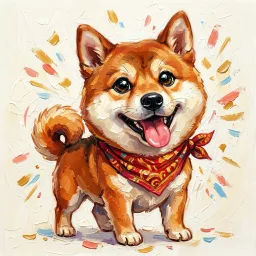
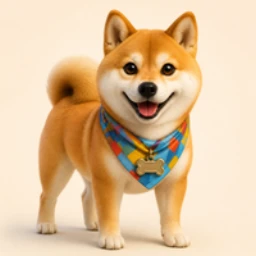
Complete soft 3D dog caricature rollout

diff --git a/sw.js b/sw.js
@@ -1,7 +1,7 @@
 // 앱 셸만 캐시(오프라인 첫 화면). API 응답은 캐시하지 않는다(날씨는 항상 최신 조회).
-const CACHE = 'tailtrail-shell-v32';
+const CACHE = 'tailtrail-shell-v33';
 // 캐리커처 43장은 처음 설치할 때 함께 받아 둔다(오프라인에서도 아이 그림이 보이게)
-const CARICATURES = ['maltese-1', 'maltese-2', 'maltese-3', 'maltese-4', 'maltese-5', 'poodle', 'pomeranian', 'corgi', 'bichon', 'retriever', 'saint-bernard', 'saint-bernard-puppy', 'saint-bernard-senior', 'pug', 'pug-puppy', 'pug-senior', 'shih-tzu', 'shih-tzu-puppy', 'shih-tzu-senior', 'husky', 'husky-puppy', 'husky-senior', 'shiba', 'shiba-puppy', 'shiba-senior', 'french-bulldog', 'french-bulldog-puppy', 'french-bulldog-senior', 'chow-chow', 'chow-chow-puppy', 'chow-chow-senior', 'samoyed', 'samoyed-puppy', 'samoyed-senior', 'jindo', 'jindo-puppy', 'jindo-senior', 'chihuahua-puppy', 'chihuahua-senior', 'chihuahua', 'dachshund', 'dachshund-puppy', 'dachshund-senior'].map(n => `./assets/caricatures/${n}.webp?v=3`);
+const CARICATURES = ['maltese-1', 'maltese-2', 'maltese-3', 'maltese-4', 'maltese-5', 'poodle', 'pomeranian', 'corgi', 'bichon', 'retriever', 'saint-bernard', 'saint-bernard-puppy', 'saint-bernard-senior', 'pug', 'pug-puppy', 'pug-senior', 'shih-tzu', 'shih-tzu-puppy', 'shih-tzu-senior', 'husky', 'husky-puppy', 'husky-senior', 'shiba', 'shiba-puppy', 'shiba-senior', 'french-bulldog', 'french-bulldog-puppy', 'french-bulldog-senior', 'chow-chow', 'chow-chow-puppy', 'chow-chow-senior', 'samoyed', 'samoyed-puppy', 'samoyed-senior', 'jindo', 'jindo-puppy', 'jindo-senior', 'chihuahua-puppy', 'chihuahua-senior', 'chihuahua', 'dachshund', 'dachshund-puppy', 'dachshund-senior'].map(n => `./assets/caricatures/${n}.webp?v=4`);
 const SHELL = ['./', './manifest.webmanifest', './assets/icon.svg', ...CARICATURES];
 self.addEventListener('install', e => e.waitUntil(caches.open(CACHE).then(c => c.addAll(SHELL.map(u => new Request(u, { cache: 'reload' })))).then(() => self.skipWaiting())));
 self.addEventListener('activate', e => e.waitUntil(caches.keys().then(ks => Promise.all(ks.filter(k => k !== CACHE).map(k => caches.delete(k)))).then(() => self.clients.claim())));

diff --git a/index.html b/index.html
@@ -17,7 +17,7 @@
   <link href="https://fonts.googleapis.com/css2?family=Noto+Sans+KR:wght@400;500;700;800&display=swap" rel="stylesheet">
   <link rel="stylesheet" href="style.css?v=0.1.6-25">
   <!-- app.js 가 가져오는 모듈을 미리 받는다(주소는 import 와 똑같이) -->
-  <link rel="modulepreload" href="app.js?v=0.1.6-26"><link rel="modulepreload" href="auth.js?v=0.1.6"><link rel="modulepreload" href="shelter.js?v=0.1.6-25"><link rel="modulepreload" href="errors.js?v=0.1.6"><link rel="modulepreload" href="role-policy.js?v=0.1.6">
+  <link rel="modulepreload" href="app.js?v=0.1.6-27"><link rel="modulepreload" href="auth.js?v=0.1.6"><link rel="modulepreload" href="shelter.js?v=0.1.6-25"><link rel="modulepreload" href="errors.js?v=0.1.6"><link rel="modulepreload" href="role-policy.js?v=0.1.6">
 </head>
 <body>
   <!-- 로그인 -->
@@ -195,7 +195,7 @@
   </div>
   <script src="config.js?v=0.1.6"></script>
   <script src="telemetry.js?v=0.1.6"></script>
-  <script src="app.js?v=0.1.6-26" type="module"></script>
+  <script src="app.js?v=0.1.6-27" type="module"></script>
   <script src="visit.js?v=0.1.6" type="module"></script>
 </body>
 </html>

diff --git a/app.js b/app.js
@@ -135,7 +135,7 @@ const characterFor = d => {
   const c = characterCandidates(d, LEGACY_BREEDS), n = Number(avatarId(d).slice(-1)) || 1; return c[n - 1] ?? c[0] ?? DEFAULT_CHARACTER;
 };
 // 같은 이름으로 그림 파일을 교체했을 때(이름 = 저장 id 라 바꿀 수 없음) 브라우저 캐시의 옛 그림을 쓰지 않게 주소에 판 번호를 붙인다. 교체할 때마다 +1
-const ART_REV = 3;
+const ART_REV = 4;
 const caricatureSrc = name => { const n = Object.values(BREEDS).some(b => b.art.includes(name) || Object.values(b.ages ?? {}).flat().includes(name)) ? name : DEFAULT_CARICATURE; return `assets/caricatures/${n}.webp?v=${ART_REV}`; };
 const AGE_BADGE = { puppy: '아기', senior: '어르신' };
 const avatar = (d, cls = '') => { const ch = characterFor(d); return `<span class="dog-ava ${cls}${ch.ageVariant ? ' age-' + ch.ageVariant : ''}" aria-hidden="true"><img src="${caricatureSrc(ch.art)}" alt="" width="96" height="96" loading="lazy" decoding="async">${AGE_BADGE[d?.age] ? `<i class="ava-badge">${AGE_BADGE[d.age]}</i>` : ''}</span>`; };
